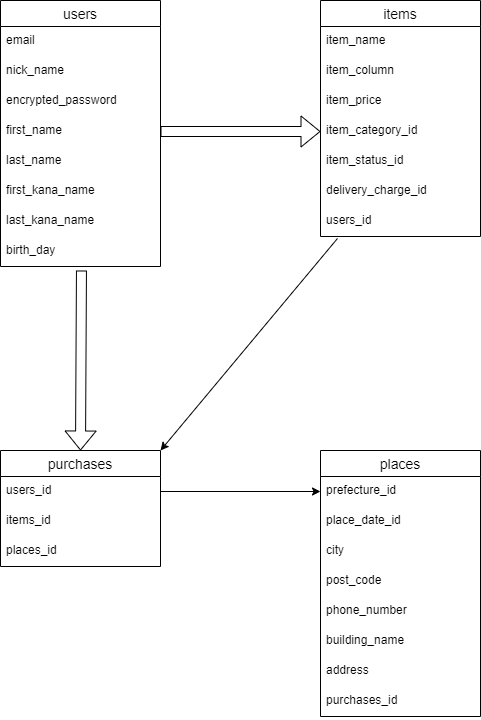
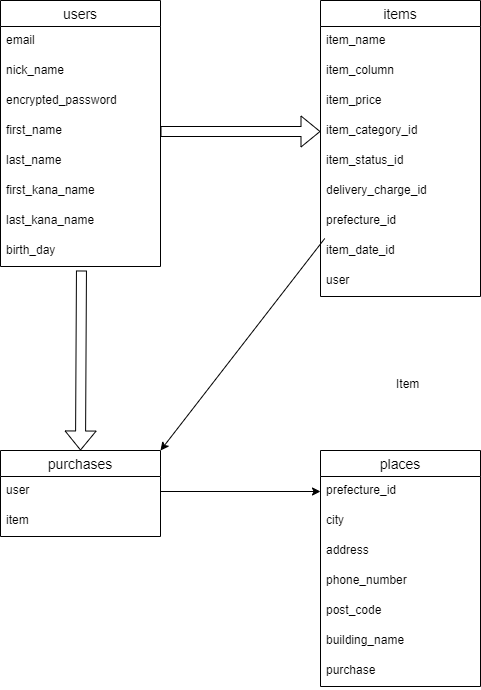
修正版２

diff --git a/README.md b/README.md
@@ -21,14 +21,13 @@
 | ---------------- | -------- | --------------------------- | 
 |item_name         |string    |null: false                  |
 |item_column       |text      |null: false                  |
-|item_price        |interger  |null: false                  |
-|item_category_id  |interger  |null: false                  |
-|item_status_id    |interger  |null: false                  |
-|delivery_charge_id|interger  |null: false                  |
-|item_region_id    |interger  |null: false                  |
-|item_date_id      |interger  |null: false                  |
+|item_price        |integer  |null: false                  |
+|item_category_id  |integer  |null: false                  |
+|item_status_id    |integer  |null: false                  |
+|delivery_charge_id|integer  |null: false                  |
+|prefecture_id     |integer  |null: false                  |
+|item_date_id      |integer  |null: false                  |
 |user              |references|foreign_key: true,null: false|
-### Association
 - has_one :purchase
 - belongs_to :user
 
@@ -45,7 +44,7 @@
 ## places table
 |Column            |Type      |Options                      |
 | ---------------- | -------- | --------------------------- | 
-|prefecture_id     |interger  |null: false                  |
+|prefecture_id     |integer  |null: false                  |
 |city              |string    |null: false                  | 
 |address           |string    |null: false                  | 
 |phone_number      |string    |null: false                  |    
